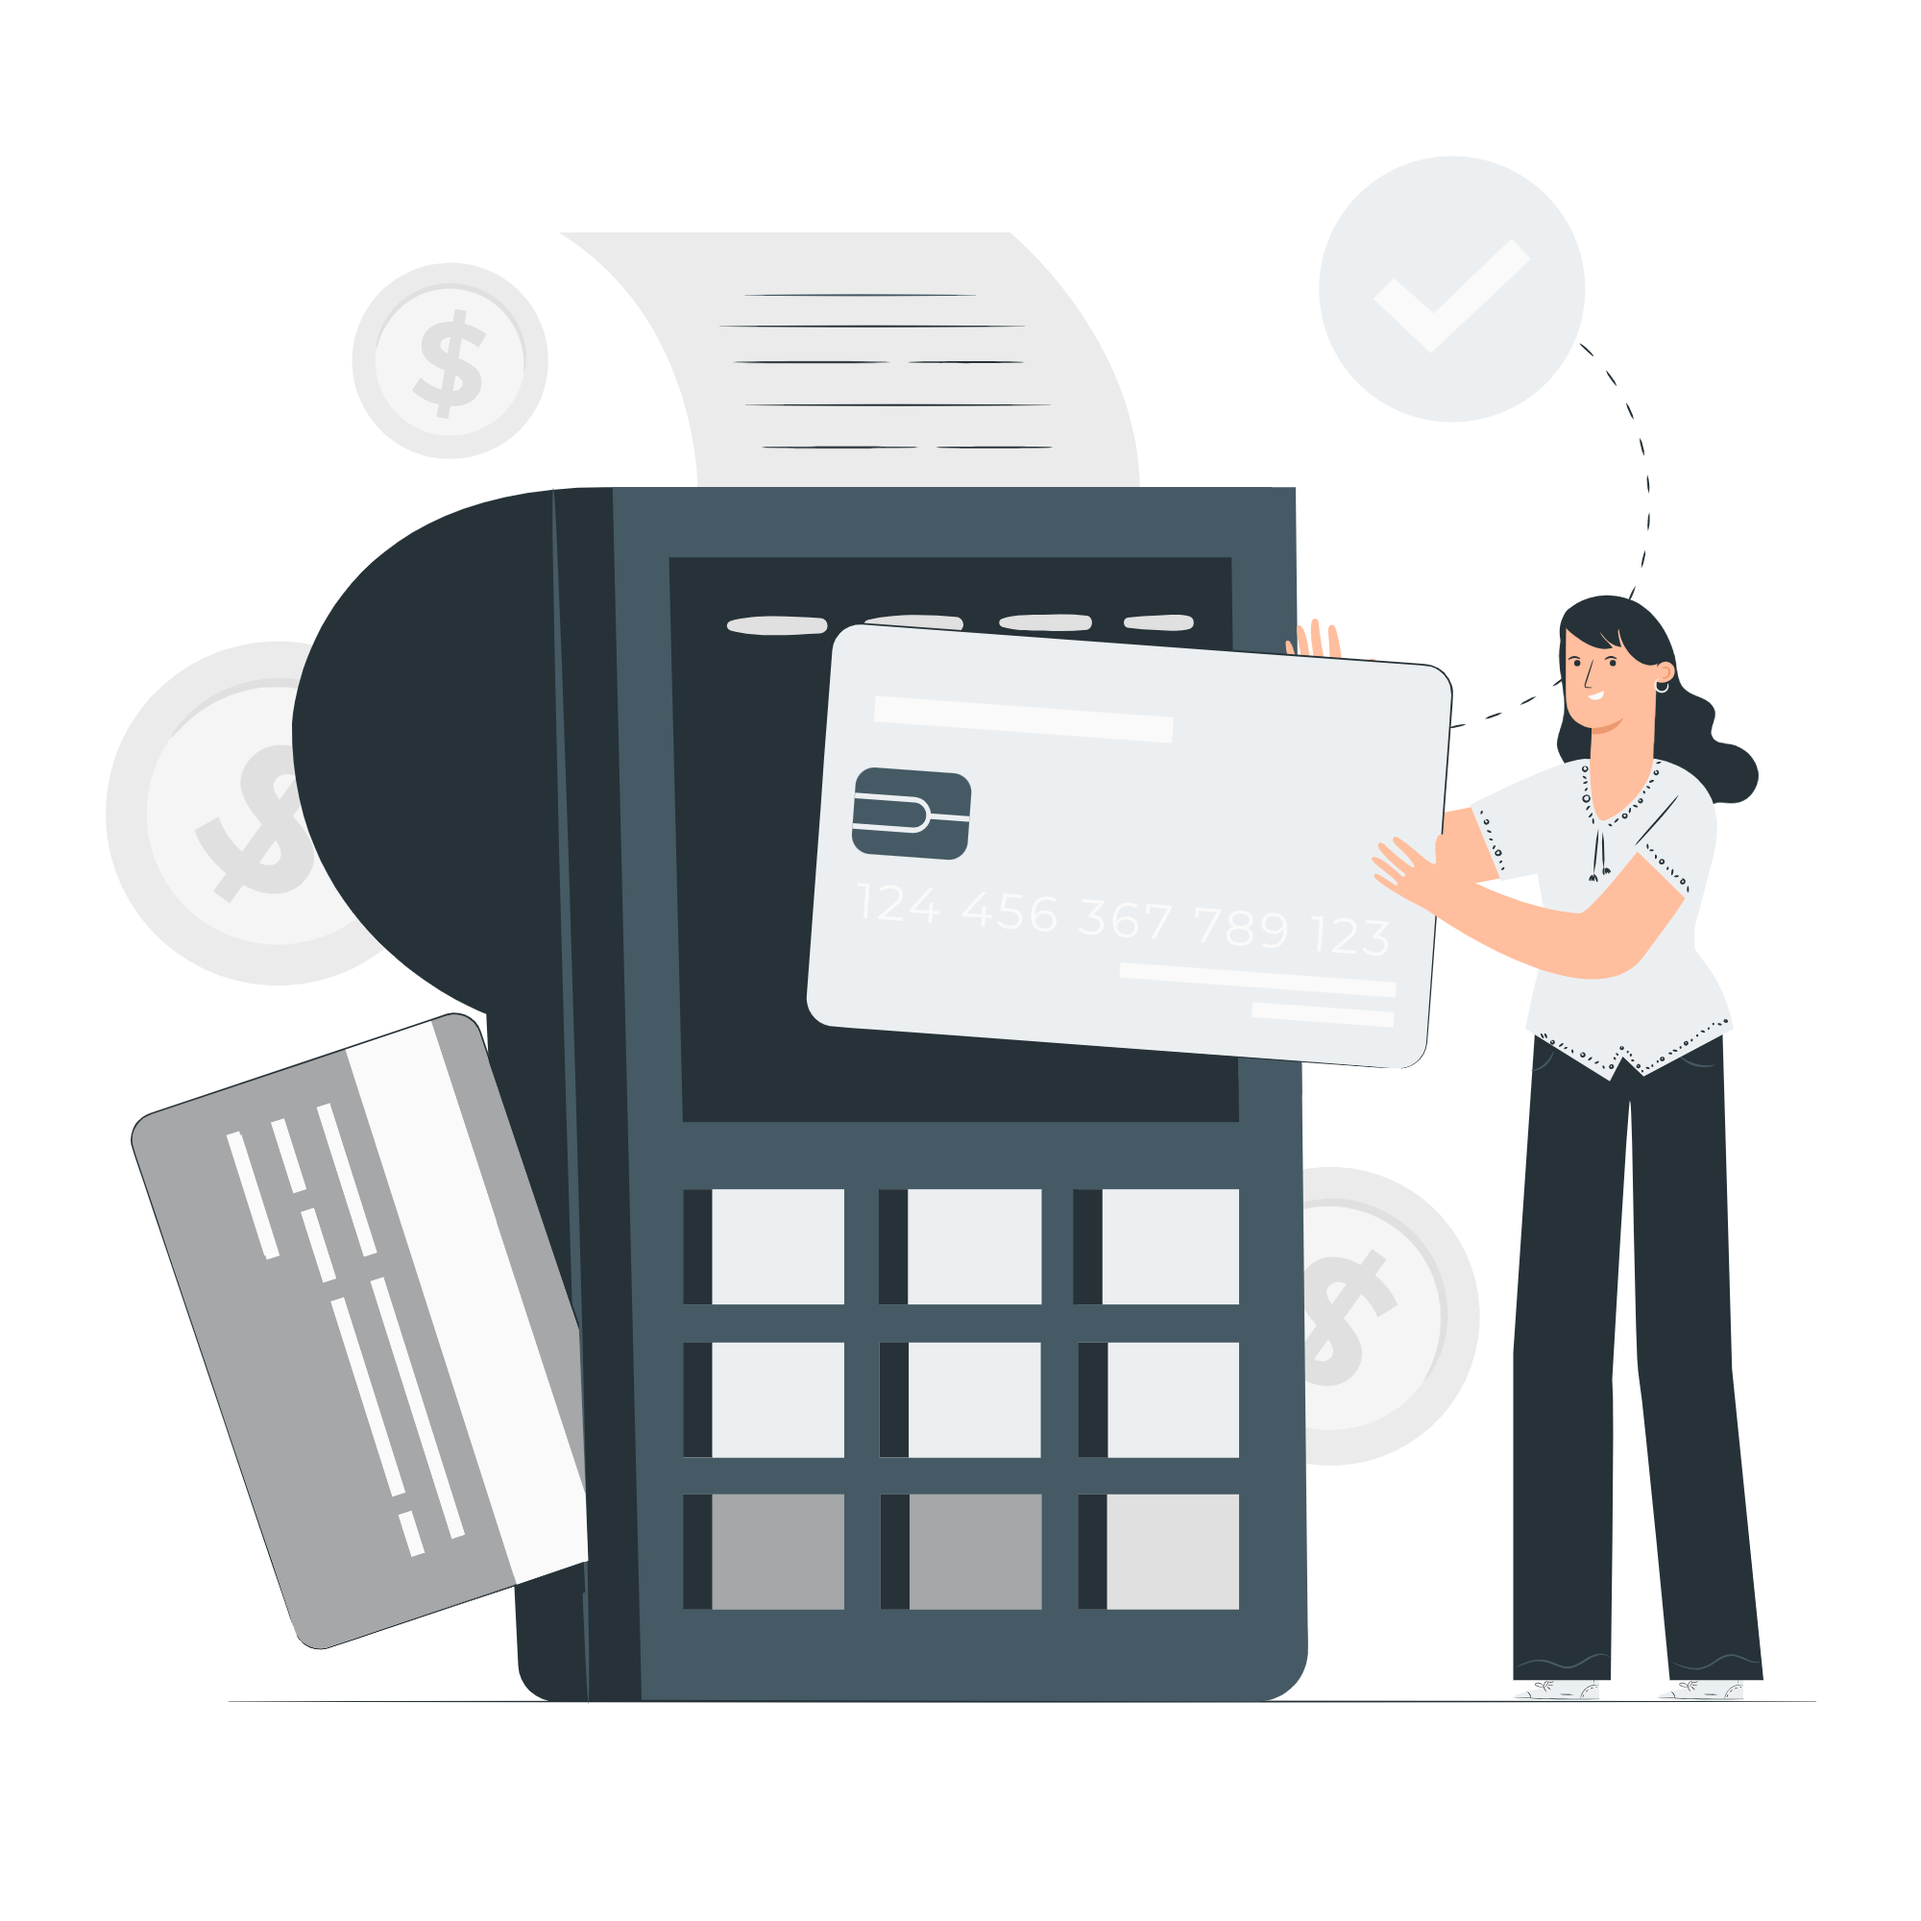
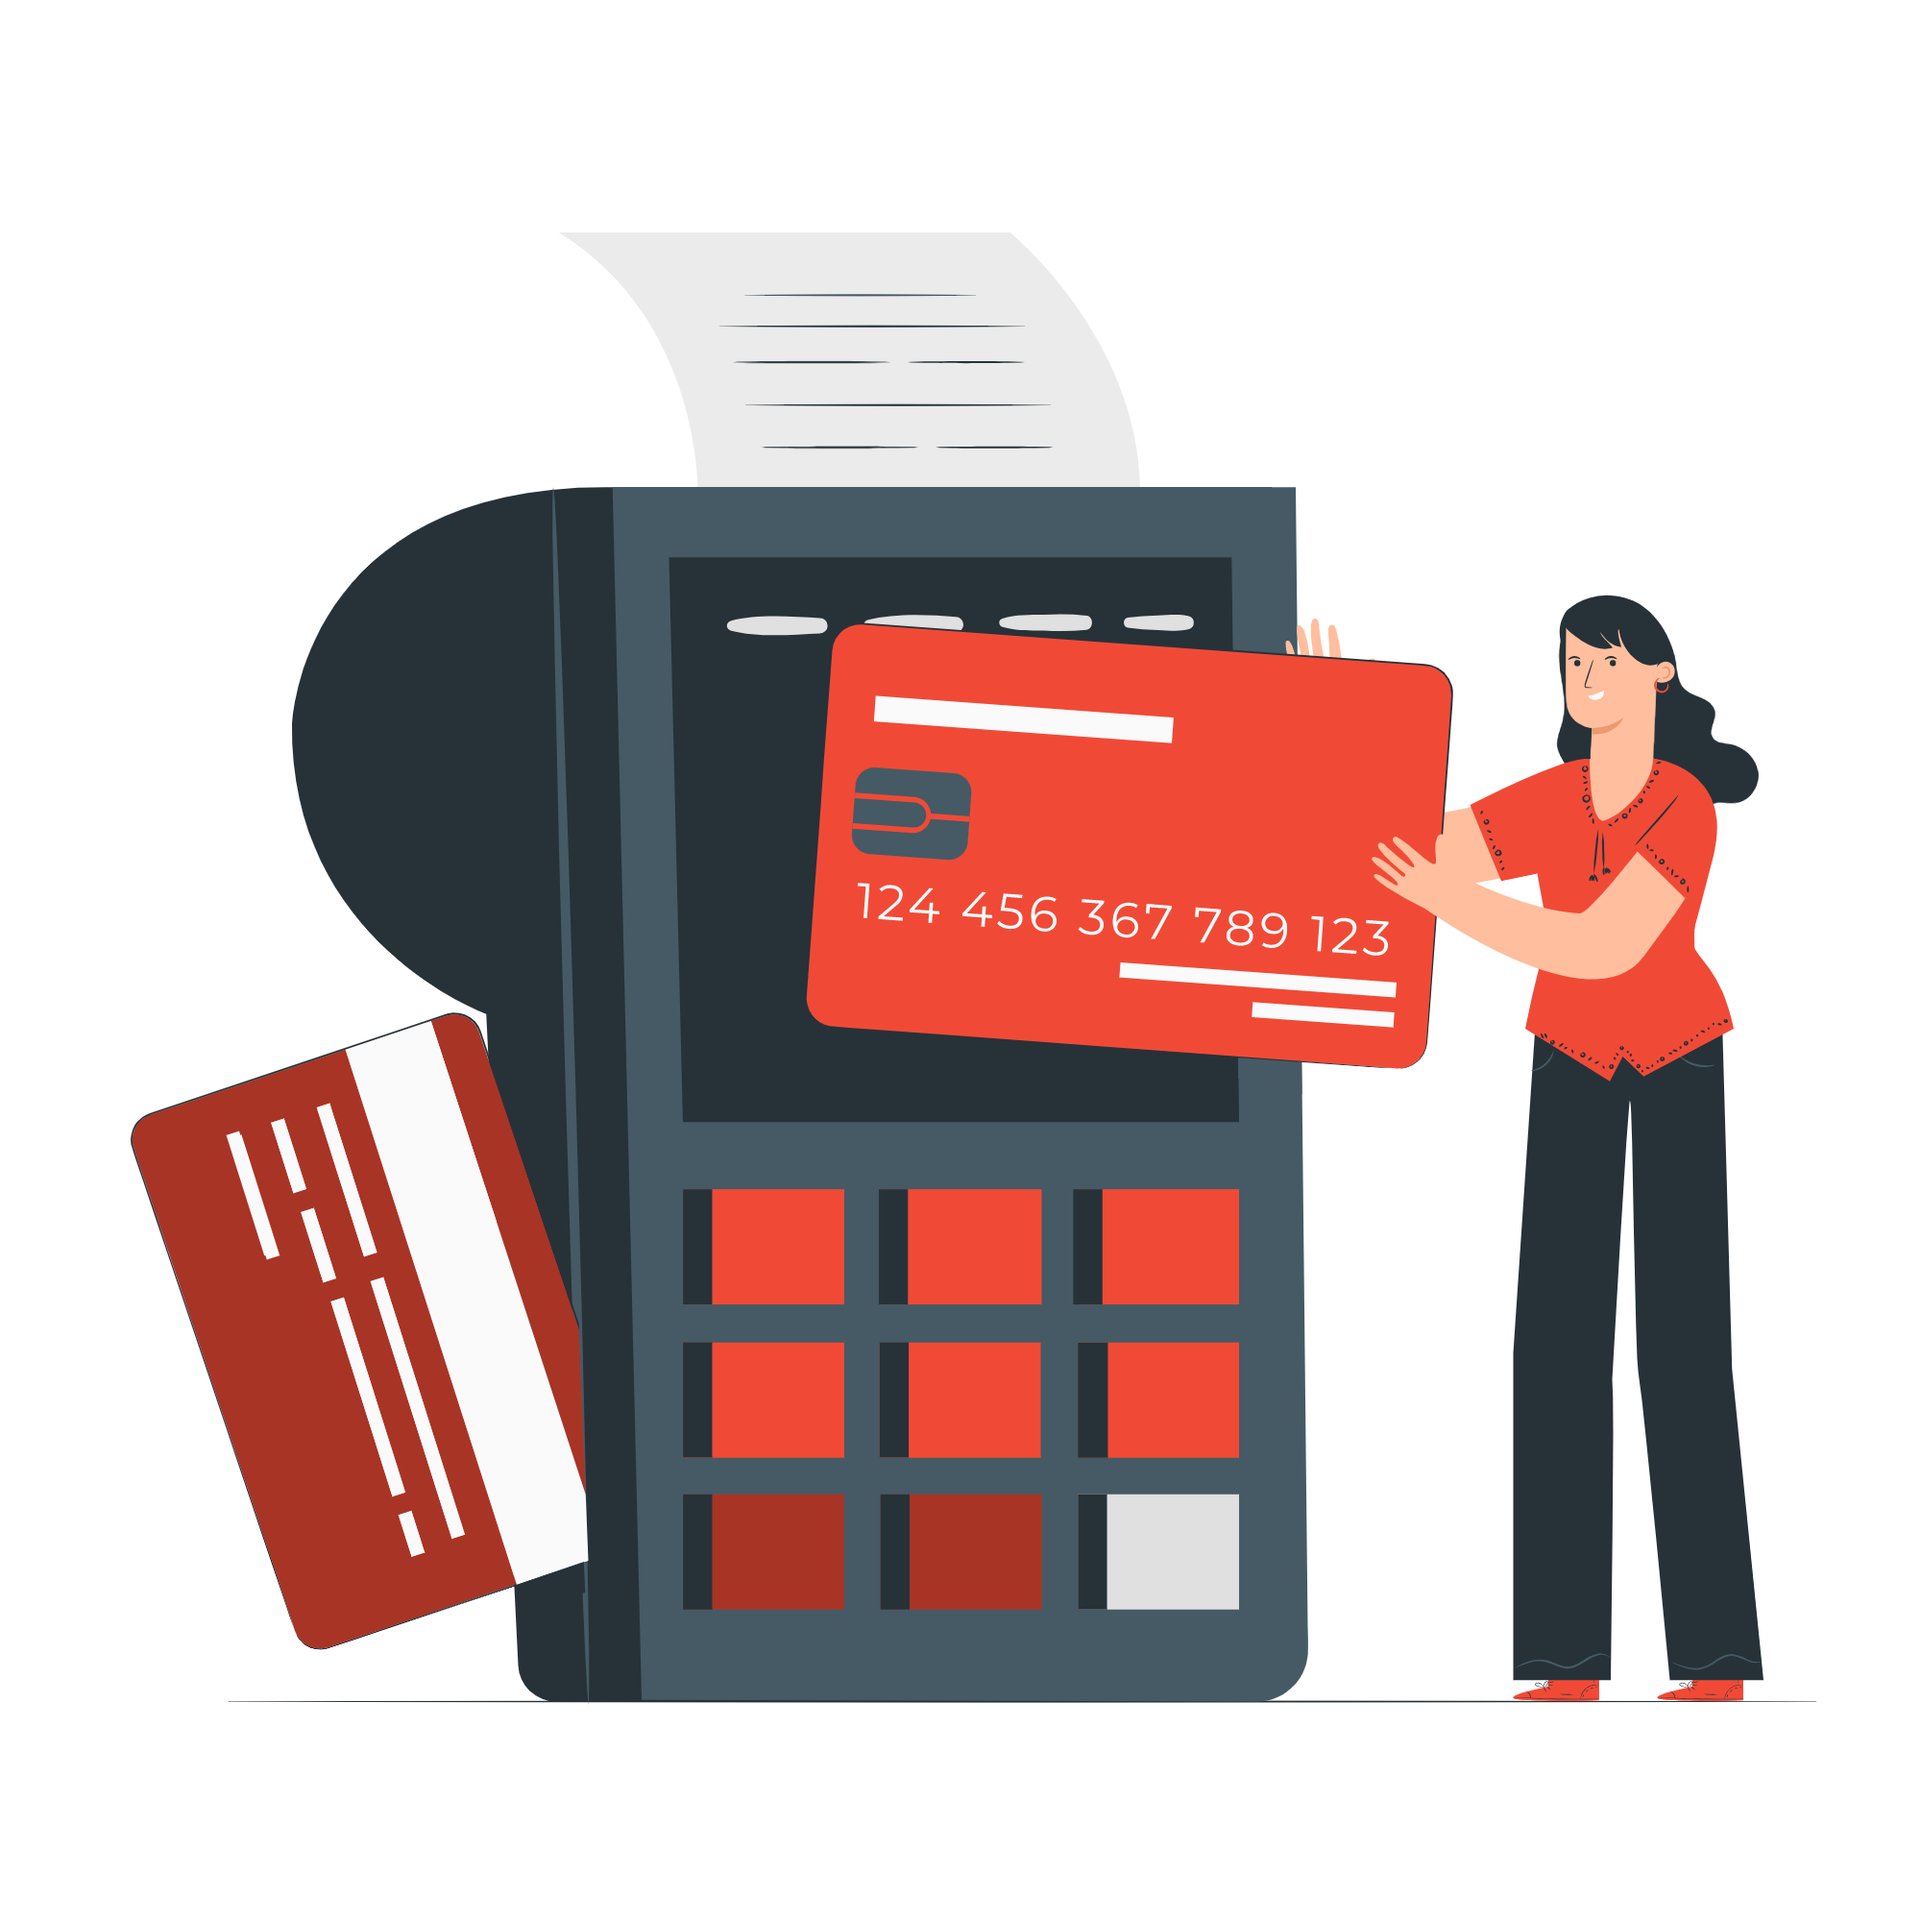
changed the layout of onBoarding screens

diff --git a/lib/onboarding/view/on_boarding_screen.dart b/lib/onboarding/view/on_boarding_screen.dart
@@ -4,8 +4,10 @@ import 'package:myfinance_app/core/ui/theme.dart';
 import 'package:myfinance_app/core/utils/utils.dart';
 import 'package:myfinance_app/onboarding/controller/onboarding_controller.dart';
 import 'package:myfinance_app/onboarding/model/on_boarding.dart';
-import 'package:myfinance_app/onboarding/view/widget/currency_item.dart';
+import 'package:myfinance_app/onboarding/view/widget/onboarding_image.dart';
 import 'package:provider/provider.dart';
+
+import 'widget/currencies_picker.dart';
 
 class OnBoardingScreen extends StatelessWidget {
   final Function(BuildContext) onBoardingEnd;
@@ -17,49 +19,56 @@ class OnBoardingScreen extends StatelessWidget {
 
   @override
   Widget build(BuildContext context) {
-    final selectedCurrency = Provider.of<OnBoardingController>(context, listen: false).selectedCurrency;
+    final selectedCurrency = context.read<OnBoardingController>().selectedCurrency;
     final onBoardingPages = [
       OnBoarding(
           'سجّل نفقاتك',
-          'قم بتسجيل جميع نفقاتك في التطبيق حتى تقوم بمتابعتها ومراقبتها.',
-          'assets/images/onboarding1.png'),
-      OnBoarding('نوّع محفظاتك', 'بإمكانك توزيع مصادر دخلك على عدة محفظات حتى ',
-          'assets/images/onboarding2.png'),
+          'قم بتسجيل جميع نفقاتك في التطبيق حتى تقوم بمتابعتها ومراقبتها',
+          'assets/images/onboarding1.png'
+      ),
+      OnBoarding('نوّع محفظاتك', 'بإمكانك توزيع مصادر دخلك على عدة محفظات',
+          'assets/images/onboarding2.png'
+      ),
       OnBoarding(
           'تقارير شهرية',
-          'سوف تحصل على تقارير وبيانات توضيحية  حول أدائك المالي خلال كل شهر.',
-          'assets/images/onboarding3.png'),
+          'سوف تحصل على تقارير وبيانات توضيحية  حول أدائك المالي خلال كل شهر',
+          'assets/images/onboarding3.png'
+      ),
     ];
     const pageDecoration = PageDecoration(
         titleTextStyle: TextStyle(
             fontFamily: 'Tajawal',
             fontSize: 36,
             fontWeight: FontWeight.bold,
-            color: whiteColor
+            color: redColor
         ),
-        imagePadding: EdgeInsets.all(30),
+        bodyTextStyle: TextStyle(
+            fontFamily: 'Tajawal',
+            fontSize: 18,
+            color: redColor
+        ),
+        imagePadding: EdgeInsets.all(50),
         imageFlex: 2,
-        bodyTextStyle:
-            TextStyle(fontFamily: 'Tajawal', fontSize: 18, color: whiteColor));
+    );
     final currenciesList = Utils.currencies();
     return IntroductionScreen(
       key: onBoardingKey,
-      globalBackgroundColor: redColor,
+      globalBackgroundColor: whiteColor,
       pages: [
         PageViewModel(
             title: onBoardingPages[0].title,
             body: onBoardingPages[0].description,
-            image: Image.asset(onBoardingPages[0].image),
+            image: OnBoardingImage(image: onBoardingPages[0].image),
             decoration: pageDecoration),
         PageViewModel(
             title: onBoardingPages[1].title,
             body: onBoardingPages[1].description,
-            image: Image.asset(onBoardingPages[1].image),
+            image: OnBoardingImage(image: onBoardingPages[1].image),
             decoration: pageDecoration),
         PageViewModel(
             title: onBoardingPages[2].title,
             body: onBoardingPages[2].description,
-            image: Image.asset(onBoardingPages[2].image),
+            image: OnBoardingImage(image: onBoardingPages[2].image),
             decoration: pageDecoration),
         PageViewModel(
             decoration: const PageDecoration(
@@ -77,60 +86,42 @@ class OnBoardingScreen extends StatelessWidget {
                 )
               ],
             ),
-            bodyWidget: SingleChildScrollView(
-              child: Container(
-                  height: 430,
-                  decoration: BoxDecoration(
-                      color: whiteColor, borderRadius: BorderRadius.circular(20)),
-                  child: ListView.builder(
-                    itemCount: currenciesList.length,
-                    itemBuilder: (_, index) {
-                      final currency = currenciesList[index];
-                      return Column(
-                        children: [
-                          CurrencyItem(
-                            currency: currency,
-                            isSelected: Provider.of<OnBoardingController>(context)
-                                    .selectedCurrency
-                                    ?.code ==
-                                currency.code,
-                            onSelectCurrency: () {
-                              Provider.of<OnBoardingController>(context,
-                                      listen: false)
-                                  .onSelectedCurrencyChange(currency
-                              );
-                            },
-                          ),
-                          const SizedBox(height: 4)
-                        ],
-                      );
-                    },
-                  )),
-            ))
+            bodyWidget: CurrenciesPicker(
+              currenciesList: currenciesList,
+              isSelected: (currency) {
+                return context.watch<OnBoardingController>()
+                  .selectedCurrency?.code == currency.code;
+              },
+              onCurrencySelected: (currency) {
+                context.read<OnBoardingController>()
+                  .onSelectedCurrencyChange(currency);
+              },
+            )
+        )
       ],
       next: FloatingActionButton(
-        backgroundColor: Colors.white,
+        backgroundColor: redColor,
         onPressed: () {onBoardingKey.currentState?.next();},
         child: const Icon(
           Icons.navigate_next,
-          color: redColor,
+          color: whiteColor,
         ),
       ),
       nextFlex: 0,
       dotsFlex: 3,
       done: selectedCurrency != null ? FloatingActionButton(
-        backgroundColor: Colors.white,
+        backgroundColor: redColor,
         onPressed: (){
           onBoardingEnd(context);
         },
         child: const Icon(
           Icons.done,
-          color: redColor,
+          color: whiteColor,
         ),
       ): Container(),
       onDone: (){},
       dotsDecorator:
-          const DotsDecorator(size: Size(10, 10), activeColor: whiteColor),
+          const DotsDecorator(size: Size(10, 10), activeColor: redColor),
     );
   }
 }

diff --git a/lib/onboarding/view/widget/currencies_picker.dart b/lib/onboarding/view/widget/currencies_picker.dart
@@ -1,0 +1,39 @@
+import 'package:flutter/material.dart';
+
+import '../../../core/ui/theme.dart';
+import '../../model/currency.dart';
+import 'currency_item.dart';
+
+class CurrenciesPicker extends StatelessWidget {
+  final List<Currency> currenciesList;
+  final bool Function(Currency) isSelected;
+  final Function(Currency) onCurrencySelected;
+  const CurrenciesPicker({Key? key, required this.currenciesList, required this.isSelected, required this.onCurrencySelected}) : super(key: key);
+
+  @override
+  Widget build(BuildContext context) {
+    return SingleChildScrollView(
+      child: Container(
+          height: 400,
+          decoration: BoxDecoration(
+            color: lightGray, borderRadius: BorderRadius.circular(20),
+          ),
+          child: ListView.builder(
+            itemCount: currenciesList.length,
+            itemBuilder: (_, index) {
+              final currency = currenciesList[index];
+              return Column(
+                children: [
+                  CurrencyItem(
+                    currency: currency,
+                    isSelected: isSelected(currency),
+                    onCurrencySelected: () => onCurrencySelected(currency),
+                  ),
+                  const SizedBox(height: 4)
+                ],
+              );
+            },
+          )),
+    );
+  }
+}

diff --git a/lib/onboarding/view/widget/currency_item.dart b/lib/onboarding/view/widget/currency_item.dart
@@ -5,15 +5,15 @@ import 'package:myfinance_app/onboarding/model/currency.dart';
 
 class CurrencyItem extends StatelessWidget {
   final Currency currency;
-  final Function() onSelectCurrency;
+  final Function() onCurrencySelected;
   final bool isSelected;
 
-  const CurrencyItem({Key? key, required this.currency, required this.onSelectCurrency, required this.isSelected}) : super(key: key);
+  const CurrencyItem({Key? key, required this.currency, required this.onCurrencySelected, required this.isSelected}) : super(key: key);
 
   @override
   Widget build(BuildContext context) {
     return GestureDetector(
-      onTap: onSelectCurrency,
+      onTap: onCurrencySelected,
       child: Container(
         padding: const EdgeInsets.symmetric(vertical: 4, horizontal: 8),
         margin: const EdgeInsets.symmetric(horizontal: 4),

diff --git a/lib/onboarding/view/widget/onboarding_image.dart b/lib/onboarding/view/widget/onboarding_image.dart
@@ -1,0 +1,21 @@
+import 'package:flutter/material.dart';
+
+import '../../../core/ui/theme.dart';
+
+class OnBoardingImage extends StatelessWidget {
+  final String image;
+  const OnBoardingImage({Key? key, required this.image}) : super(key: key);
+
+  @override
+  Widget build(BuildContext context) {
+    return  ClipOval(
+      child: Container(
+          padding: const EdgeInsets.all(20),
+          decoration: BoxDecoration(
+              color: lightRedColor.withOpacity(0.5)
+          ),
+          child: Image.asset(image)
+      ),
+    );
+  }
+}
